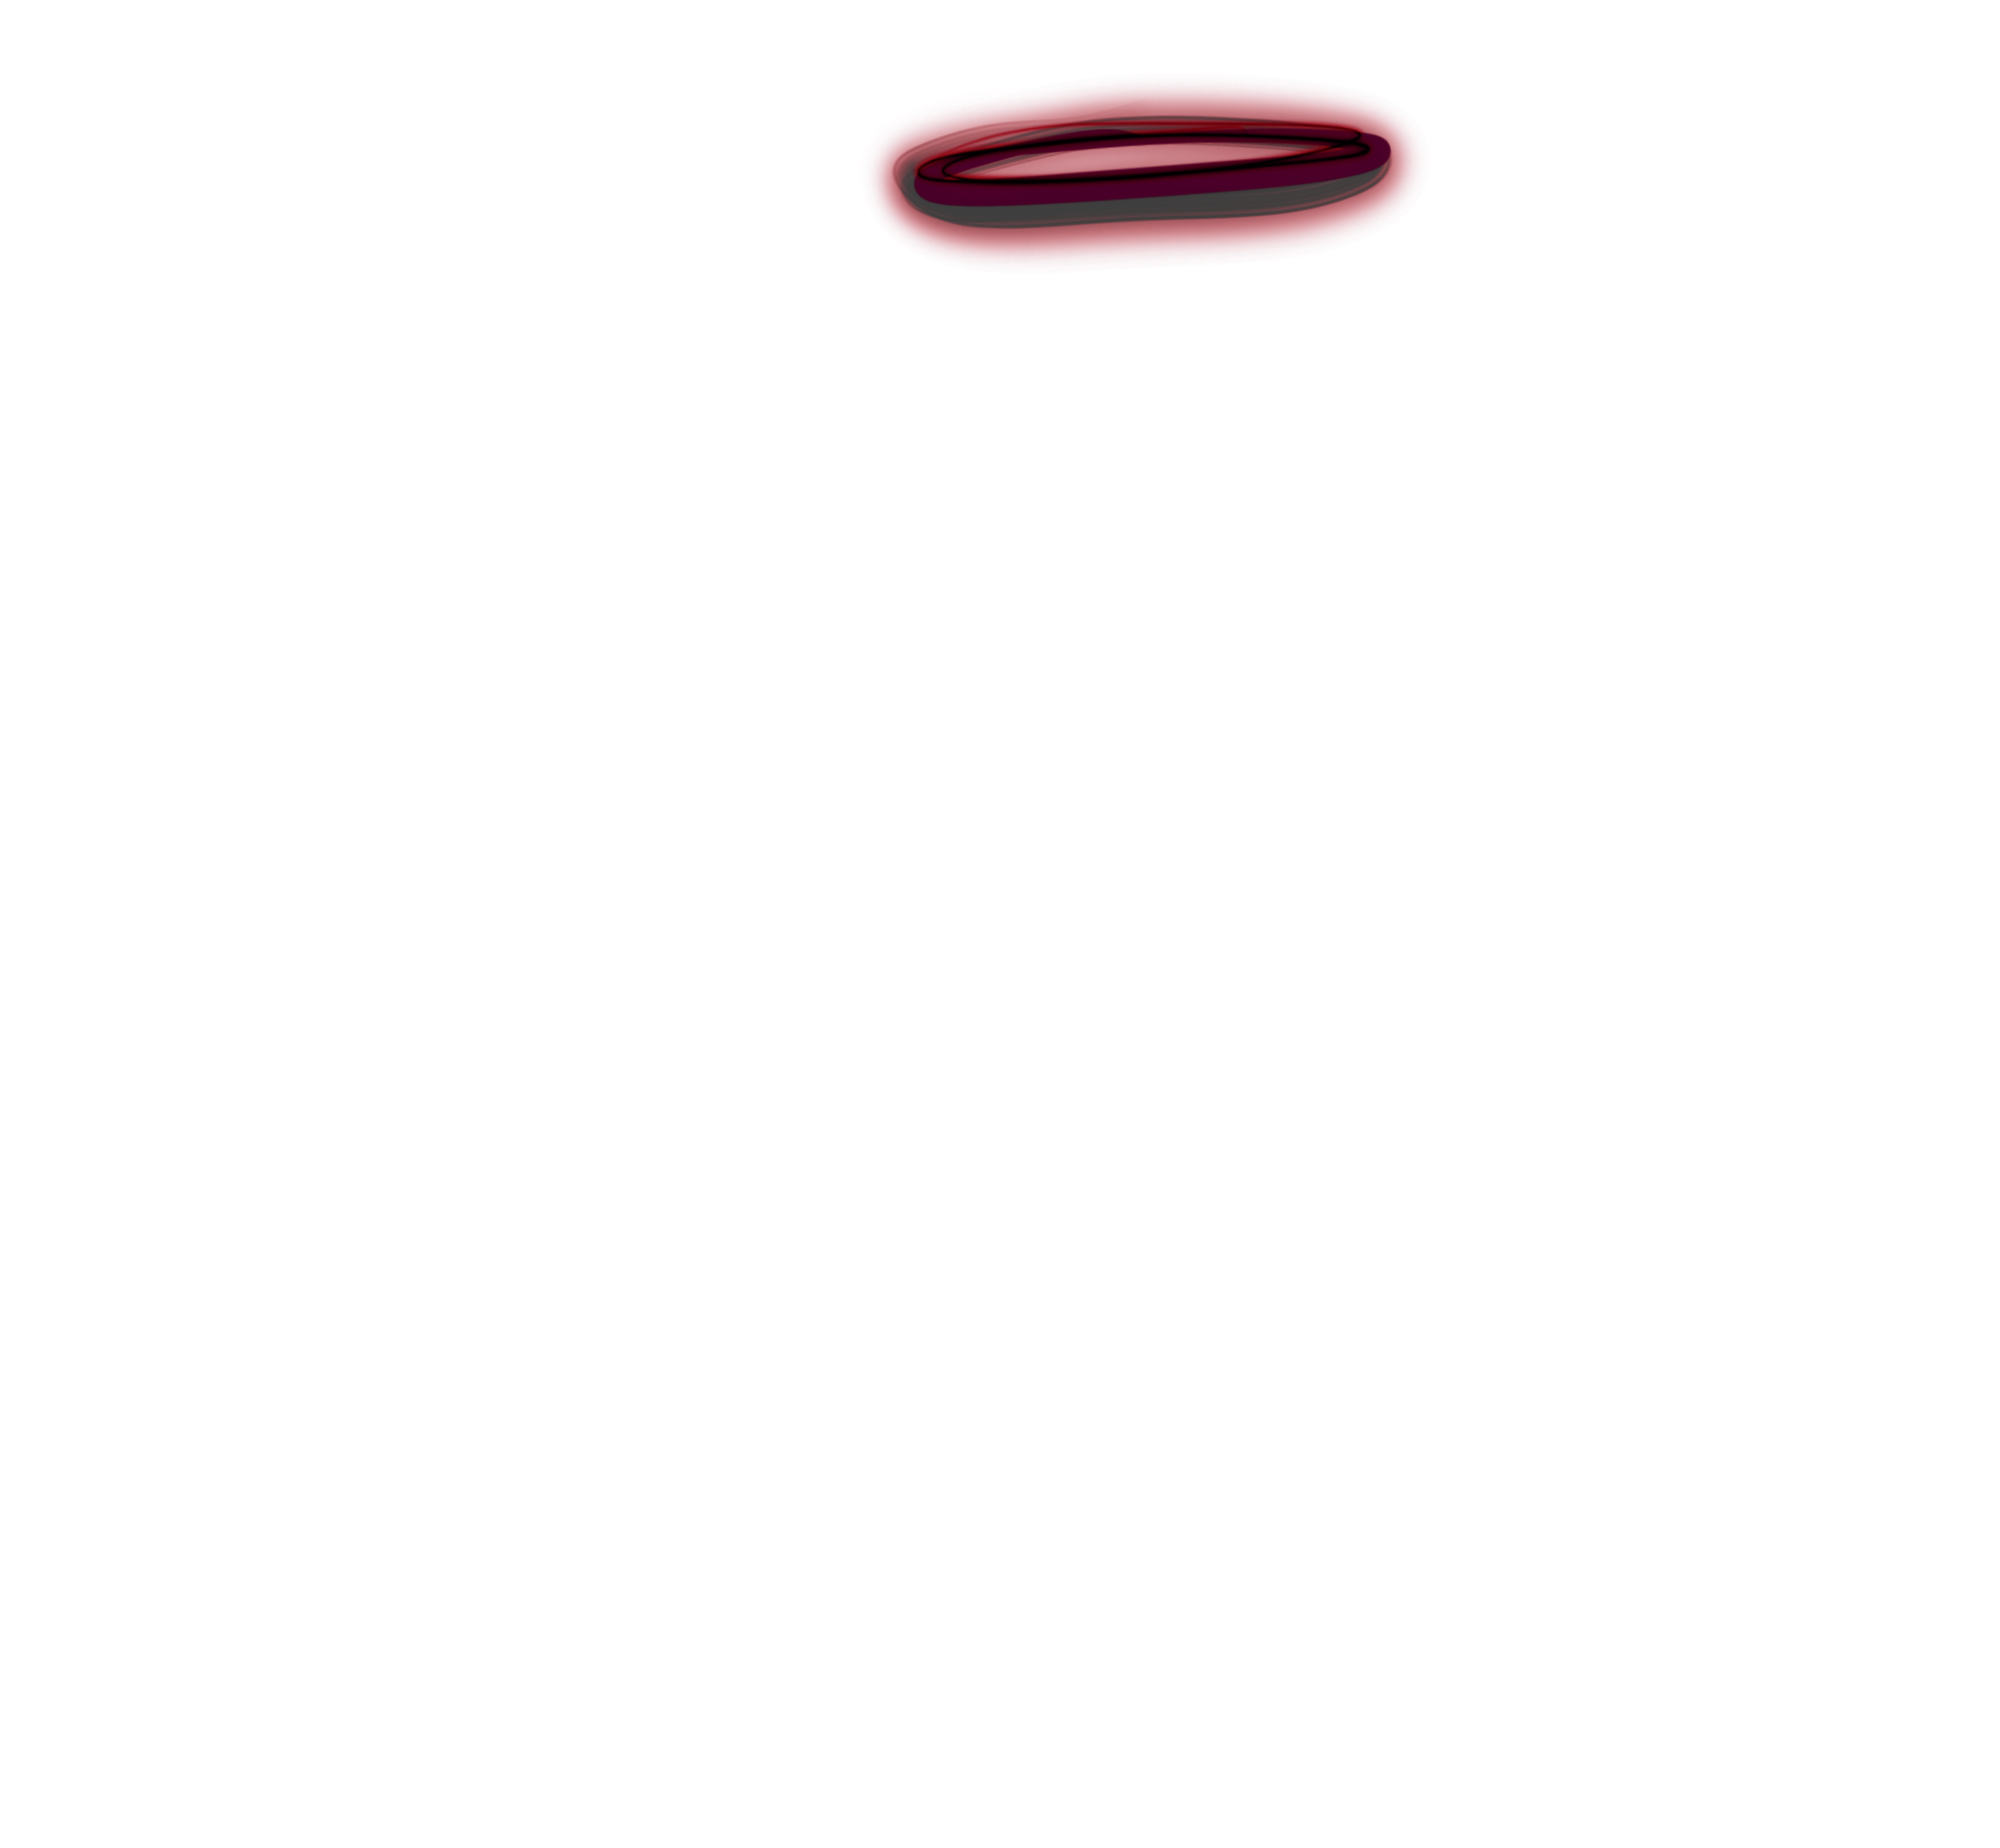
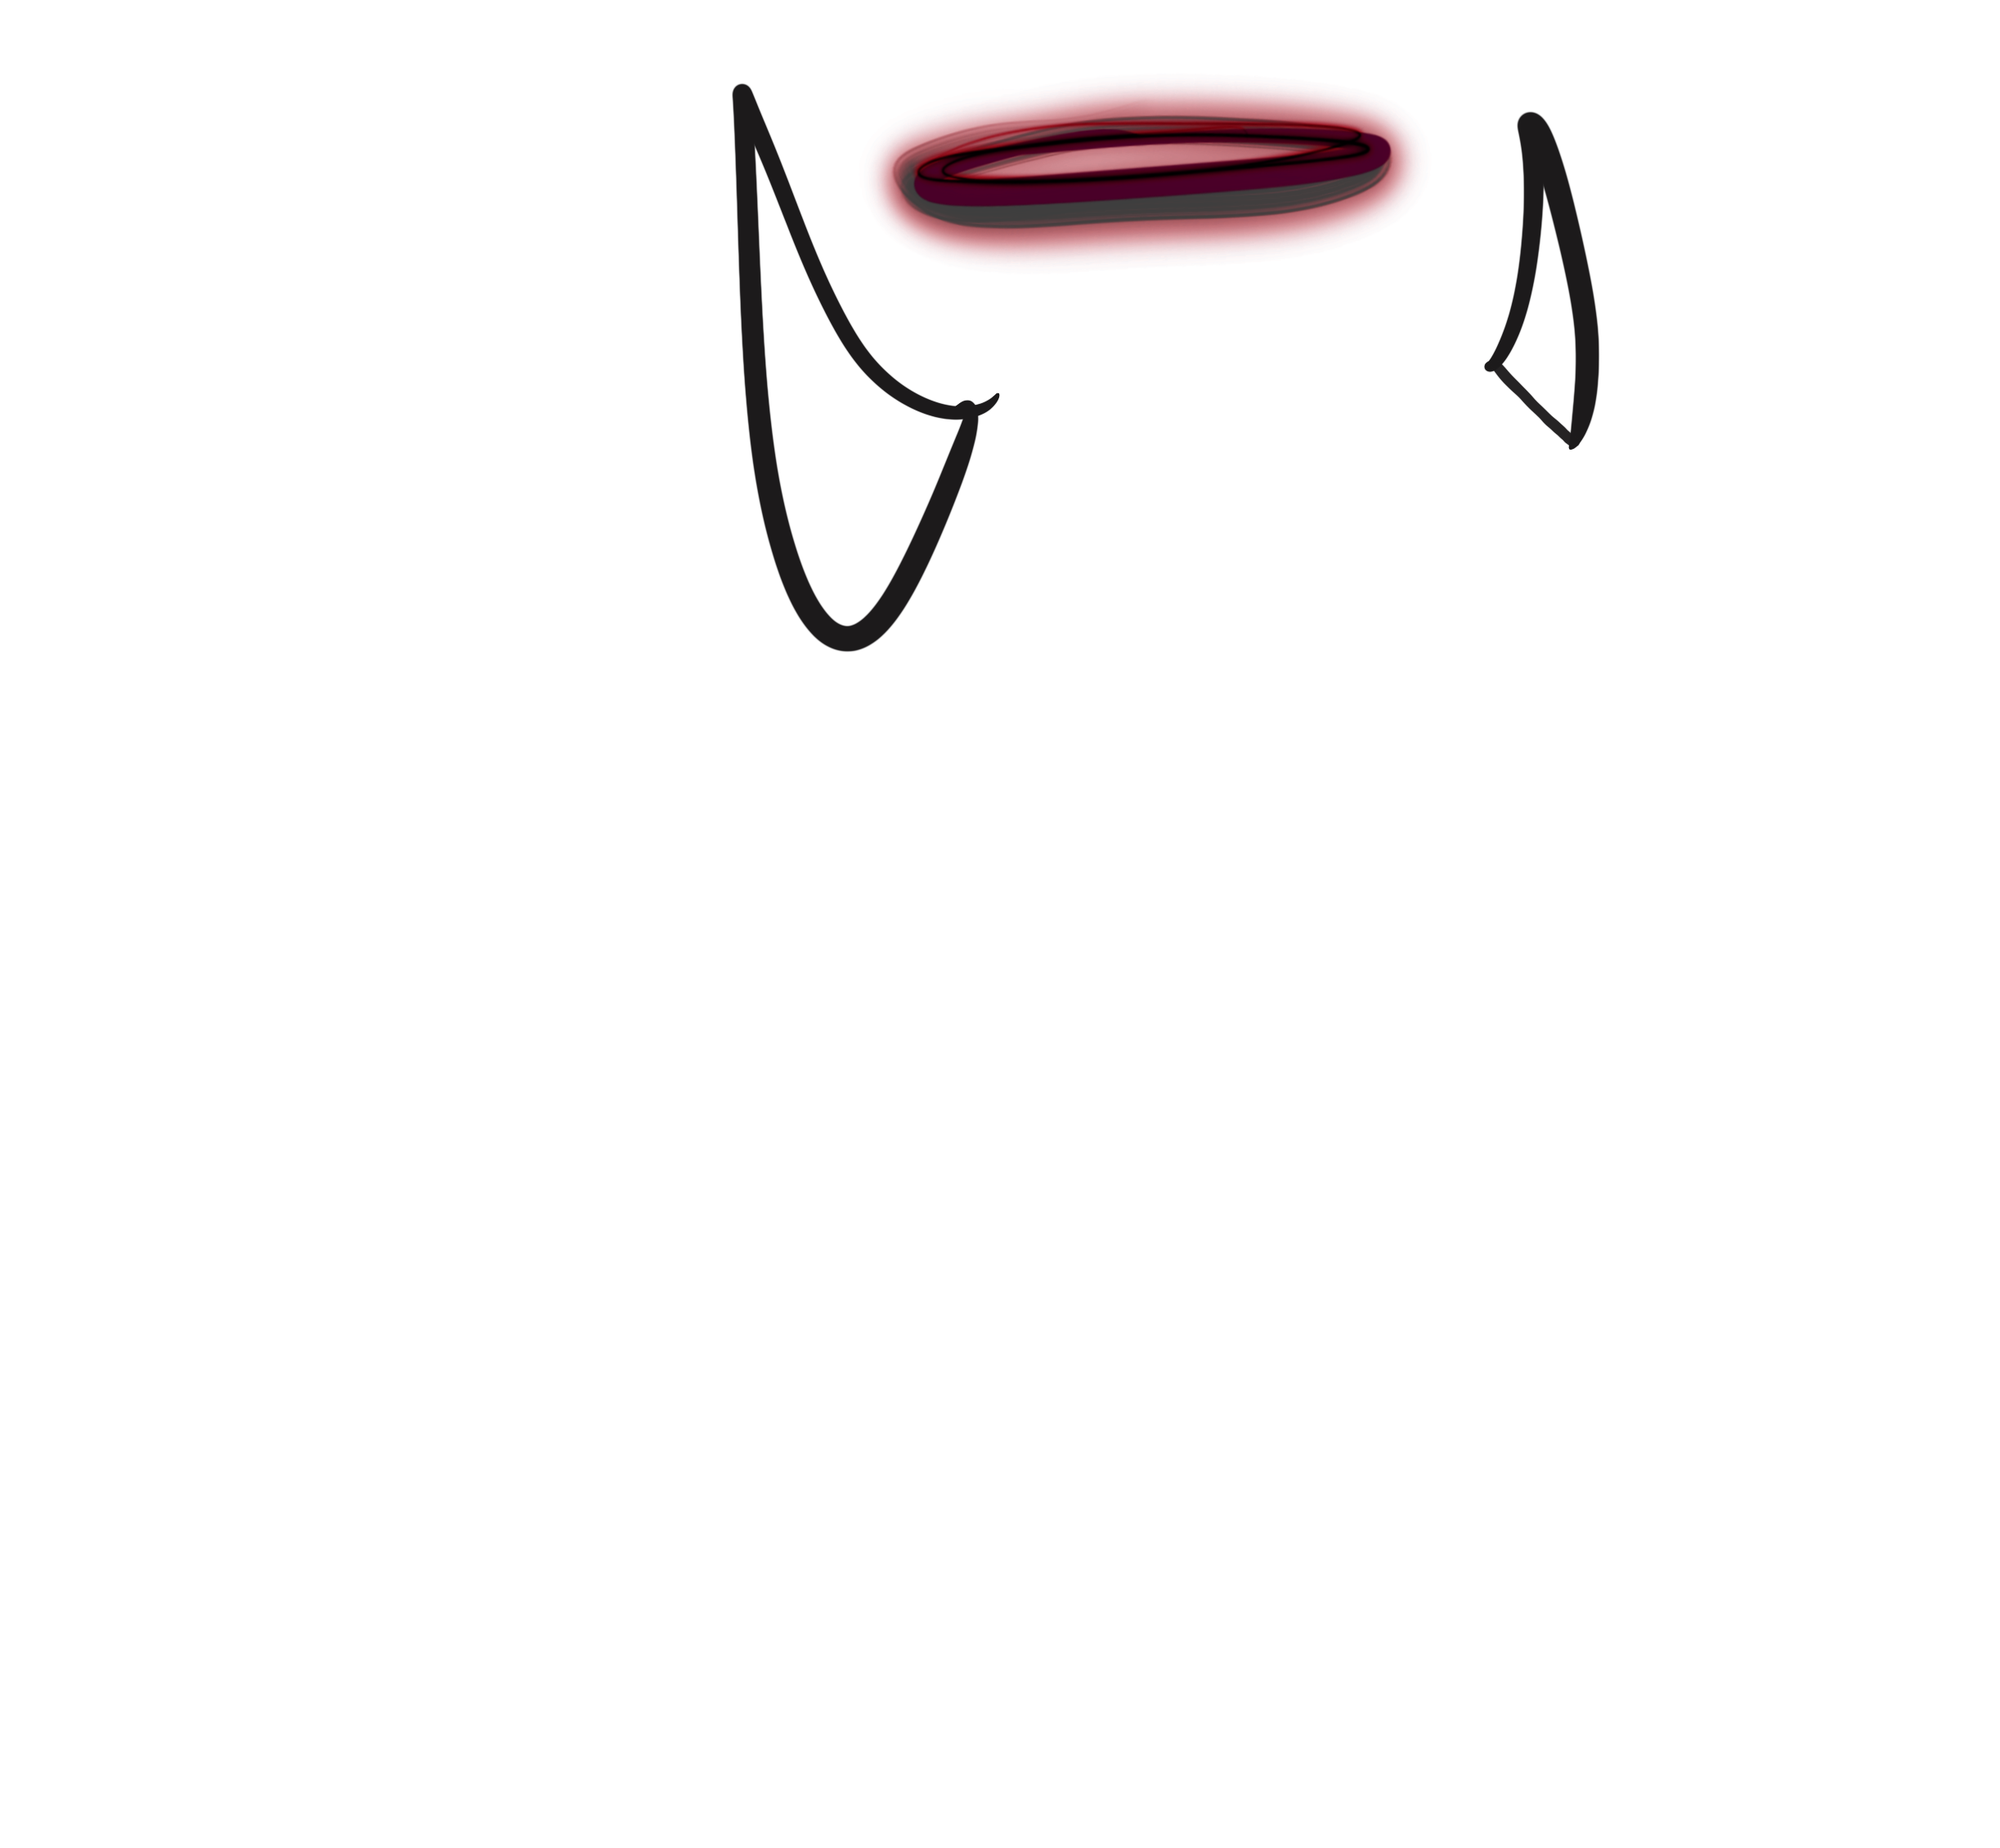
Effect, head, and bubbles are toggle-able

Changed region(s): [[0.3418, 0.031, 0.4971, 0.3717], [0.7457, 0.0619, 0.8078, 0.2478]]

diff --git a/index.html b/index.html
@@ -30,7 +30,7 @@
             <img loading="lazy" src="./assets/body/ghost-body5.png" class="ghost-body__img"  alt=""/>
           </div>
           <div class="ghost-head">
-            <img loading="lazy" src="./assets/head/ghost-head1.png" class="ghost-head__img active"  alt=""/>
+            <img loading="lazy" src="./assets/head/ghost-head1.png" class="ghost-head__img"  alt=""/>
             <img loading="lazy" src="./assets/head/ghost-head2.png" class="ghost-head__img"  alt=""/>
             <img loading="lazy" src="./assets/head/ghost-head3.png" class="ghost-head__img"  alt=""/>
             <img loading="lazy" src="./assets/head/ghost-head4.png" class="ghost-head__img"  alt=""/>
@@ -44,9 +44,8 @@
             <img loading="lazy" src="./assets/head/ghost-head12.png" class="ghost-head__img"  alt=""/>
           </div>
           <div class="ghost-effect">
-            <img loading="lazy" src="./assets/effect/ghost-effect1.png" class="ghost-effect__img active"  alt=""/>
+            <img loading="lazy" src="./assets/effect/ghost-effect1.png" class="ghost-effect__img"  alt=""/>
             <img loading="lazy" src="./assets/effect/ghost-effect2.png" class="ghost-effect__img"  alt=""/>
-            <img loading="lazy" src="./assets/effect/ghost-effect3.png" class="ghost-effect__img"  alt=""/>
           </div>
           <div class="ghost-eye">
             <img loading="lazy" src="./assets/eyes/ghost-eye1.png" class="ghost-eye__img active"  alt=""/>
@@ -87,7 +86,7 @@
             <img loading="lazy" src="./assets/hand/ghost-hand9.png" class="ghost-hand__img" alt=""/>
           </div>
           <div class="ghost-bubble">
-            <img loading="lazy" src="./assets/bubble/bubble1.png" class="ghost-bubble__img active" alt=""/>
+            <img loading="lazy" src="./assets/bubble/bubble1.png" class="ghost-bubble__img" alt=""/>
             <img loading="lazy" src="./assets/bubble/bubble2.png" class="ghost-bubble__img" alt=""/>
             <img loading="lazy" src="./assets/bubble/bubble3.png" class="ghost-bubble__img" alt=""/>
             <img loading="lazy" src="./assets/bubble/bubble4.png" class="ghost-bubble__img" alt=""/>
@@ -98,7 +97,6 @@
             <img loading="lazy" src="./assets/bubble/bubble9.png" class="ghost-bubble__img" alt=""/>
             <img loading="lazy" src="./assets/bubble/bubble10.png" class="ghost-bubble__img" alt=""/>
             <img loading="lazy" src="./assets/bubble/bubble11.png" class="ghost-bubble__img" alt=""/>
-            <img loading="lazy" src="./assets/bubble/bubble12.png" class="ghost-bubble__img" alt=""/>
           </div>
           <div class="save">
             <button onclick="saveImage()">Save</button>
@@ -120,7 +118,6 @@
             <ul class="closet-effect">
               <li><img src="./assets/effect/ghost-effect1.png" width="50px" height="50px"/></li>
               <li><img src="./assets/effect/ghost-effect2.png" width="50px" height="50px"/></li>
-              <li><img src="./assets/effect/ghost-effect3.png" width="50px" height="50px"/></li>
             </ul>
           </div>
           <div class="head">
@@ -137,7 +134,6 @@
                 <li><img src="./assets/head/ghost-head9.png" width="50px" height="50px"/></li>
                 <li><img src="./assets/head/ghost-head10.png" width="50px" height="50px"/></li>
                 <li><img src="./assets/head/ghost-head11.png" width="50px" height="50px"/></li>
-                <li><img src="./assets/head/ghost-head12.png" width="50px" height="50px"/></li>
             </ul>
           </div>
           <div class="eye">
@@ -201,7 +197,6 @@
                 <li><img src="./assets/bubble/bubble9.png" width="50px" height="50px"/></li>
                 <li><img src="./assets/bubble/bubble10.png" width="50px" height="50px"/></li>
                 <li><img src="./assets/bubble/bubble11.png" width="50px" height="50px"/></li>
-                <li><img src="./assets/bubble/bubble12.png" width="50px" height="50px"/></li>
             </ul>
           </div>
         </div>

diff --git a/script/main.js b/script/main.js
@@ -18,61 +18,61 @@ function saveImage() {
   );
 }
 
+function toggleActive(imgActive, imgs, n) {
+  if (imgActive) {
+    imgActive.classList.remove("active");
+    if (imgActive.src !== imgs[n - 1].src) {
+      imgs[n - 1].classList.toggle("active");
+    }
+  } else {
+    imgs[n - 1].classList.toggle("active");
+  }
+}
+
 function changeHead(n) {
   const headImgActive = document.querySelector(".ghost-head .active");
-  headImgActive.classList.remove("active");
-  const headImgs = document.querySelectorAll(".ghost-head img");
-  headImgs[n-1].classList.add("active");
-  isHeadOn = n != 1;
-
-  let eyeImg = document.querySelector(".ghost-eye__img");
-  if(isHeadOn && (n < 5)) {
-    eyeImg.style.opacity = 0.5;
-  } else {
-    eyeImg.style.opacity = 1.0;
-  }
+  const headImgs = document.querySelectorAll(".ghost-head img");  
+  toggleActive(headImgActive, headImgs, n);
 }
 
 function changeBody(n) {
   const bodyImgActive = document.querySelector(".ghost-body .active");
   bodyImgActive.classList.remove("active");
   const bodyImgs = document.querySelectorAll(".ghost-body img");
-  bodyImgs[n-1].classList.add("active");
+  bodyImgs[n - 1].classList.add("active");
 }
 
 function changeEffect(n) {
   const effectImgActive = document.querySelector(".ghost-effect .active");
-  effectImgActive.classList.remove("active");
   const effectImgs = document.querySelectorAll(".ghost-effect img");
-  effectImgs[n-1].classList.add("active");
+  toggleActive(effectImgActive, effectImgs, n);
 }
 
 function changeEye(n) {
   const eyeImgActive = document.querySelector(".ghost-eye .active");
   eyeImgActive.classList.remove("active");
   const eyeImgs = document.querySelectorAll(".ghost-eye img");
-  eyeImgs[n-1].classList.add("active");
+  eyeImgs[n - 1].classList.add("active");
 }
 
 function changeMouth(n) {
   const mouthImgActive = document.querySelector(".ghost-mouth .active");
   mouthImgActive.classList.remove("active");
   const mouthImgs = document.querySelectorAll(".ghost-mouth img");
-  mouthImgs[n-1].classList.add("active");
+  mouthImgs[n - 1].classList.add("active");
 }
 
 function changeHand(n) {
   const handImgActive = document.querySelector(".ghost-hand .active");
   handImgActive.classList.remove("active");
   const handImgs = document.querySelectorAll(".ghost-hand img");
-  handImgs[n-1].classList.add("active");
+  handImgs[n - 1].classList.add("active");
 }
 
 function changeBubble(n) {
   const bubbleImgActive = document.querySelector(".ghost-bubble .active");
-  bubbleImgActive.classList.remove("active");
   const bubbleImgs = document.querySelectorAll(".ghost-bubble img");
-  bubbleImgs[n-1].classList.add("active");
+  toggleActive(bubbleImgActive, bubbleImgs, n);
 }
 
 window.onload = function () {
@@ -89,7 +89,9 @@ window.onload = function () {
   }
 
   for (let i = 0; i < closetEffect.children.length; i += 1) {
-    closetEffect.children[i].addEventListener("click", () => changeEffect(i + 1));
+    closetEffect.children[i].addEventListener("click", () =>
+      changeEffect(i + 1)
+    );
   }
 
   for (let i = 0; i < closetHead.children.length; i += 1) {

diff --git a/style/style.scss b/style/style.scss
@@ -249,6 +249,7 @@ footer {
 
 .active {
   display: block;
+  transition: 0.2s all ease-in-out;
 }
 
 .buttons {
@@ -259,6 +260,7 @@ footer {
     padding: 1rem 0 0.5rem 0;
   }
 }
+
 .save {
   text-align: center;
   position: absolute;
